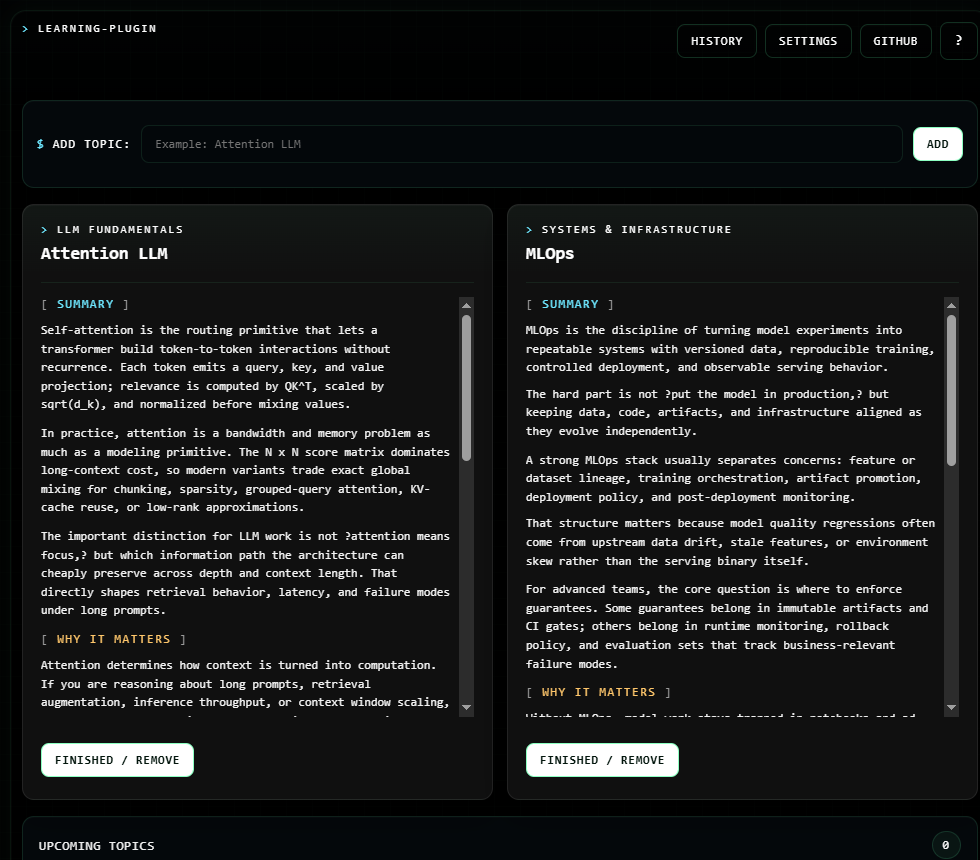
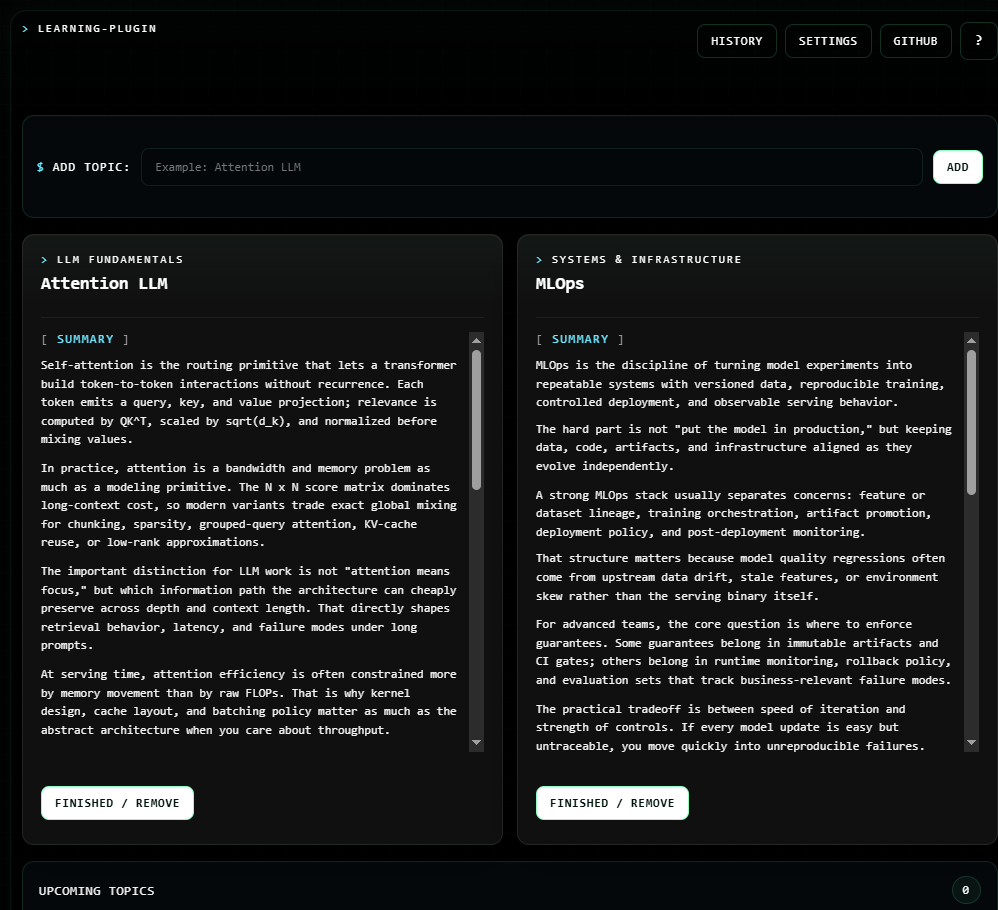
Slow README demo and preserve queued topic input

diff --git a/src/pages/dashboard/DashboardPage.tsx b/src/pages/dashboard/DashboardPage.tsx
@@ -409,7 +409,7 @@ export function DashboardPage() {
     !visibleCardSlots.length &&
     (loading || generating || isSubmittingTopic);
 
-  async function importTopics(titles: string[]): Promise<void> {
+  async function importTopics(titles: string[], submittedInputValue?: string): Promise<void> {
     if (!titles.length) {
       return;
     }
@@ -418,7 +418,13 @@ export function DashboardPage() {
 
     try {
       const result = await sendBackgroundMessage({ type: "topics/import", titles });
-      setNewTopicInput("");
+      setNewTopicInput((currentValue) => {
+        if (!submittedInputValue) {
+          return "";
+        }
+
+        return currentValue === submittedInputValue ? "" : currentValue;
+      });
       setData(result.dashboard);
       setToast(result.createdCount ? "Topic added" : "Already exists");
     } finally {
@@ -428,7 +434,7 @@ export function DashboardPage() {
 
   async function handleQuickAdd(): Promise<void> {
     const liveInputValue = quickAddInputRef.current?.value ?? newTopicInput;
-    await importTopics(titleFromLines(liveInputValue));
+    await importTopics(titleFromLines(liveInputValue), liveInputValue);
   }
 
   async function handleRemoveTopic(topicId: string): Promise<void> {
